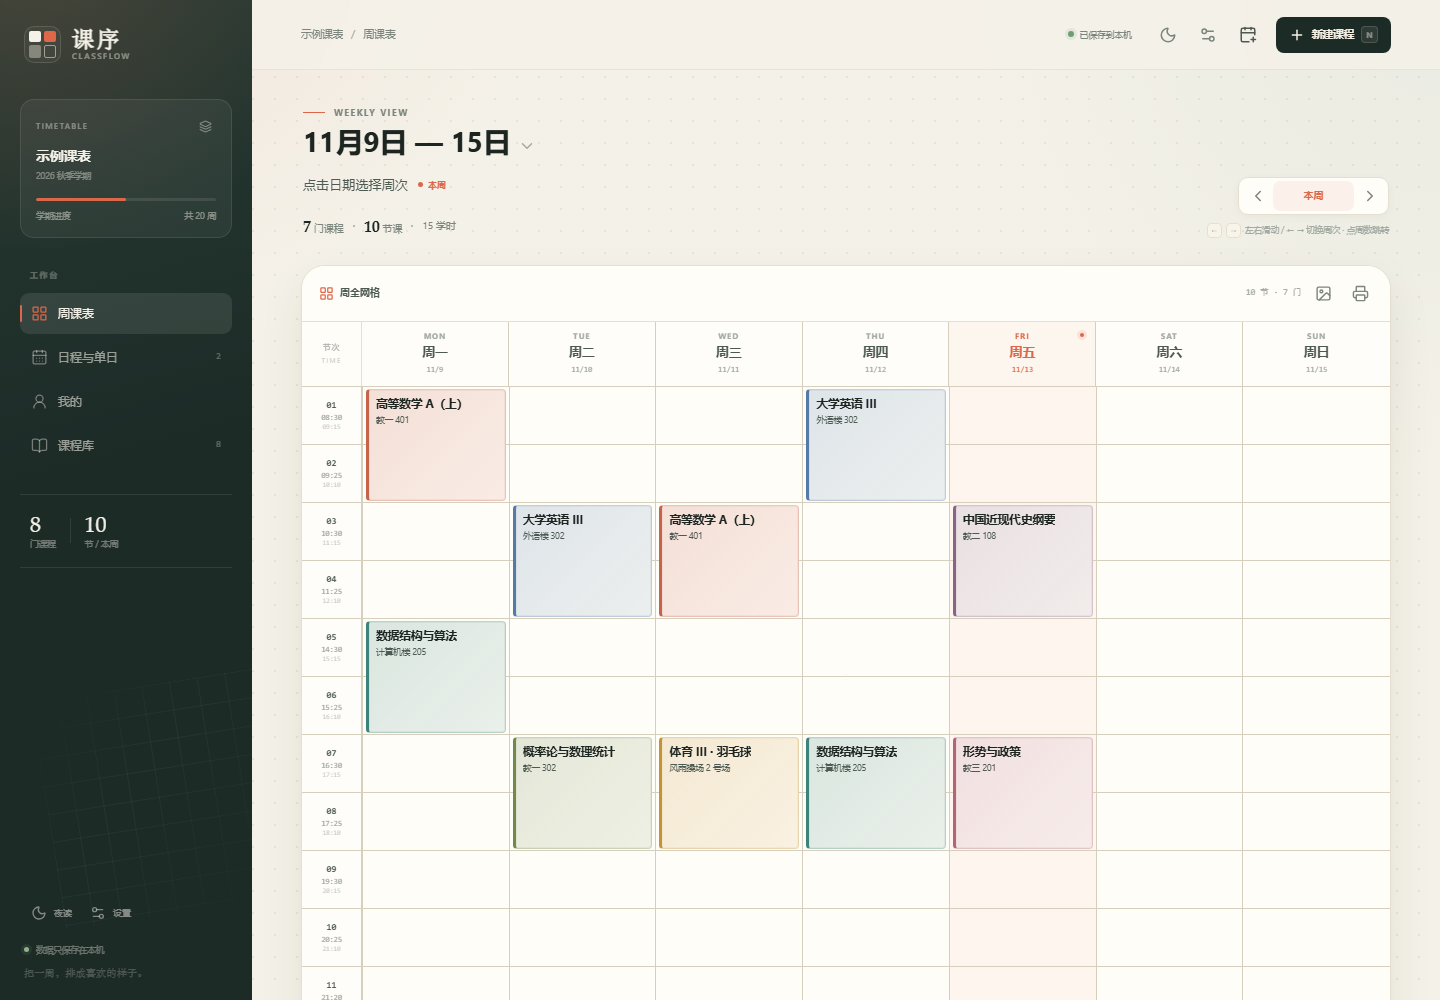
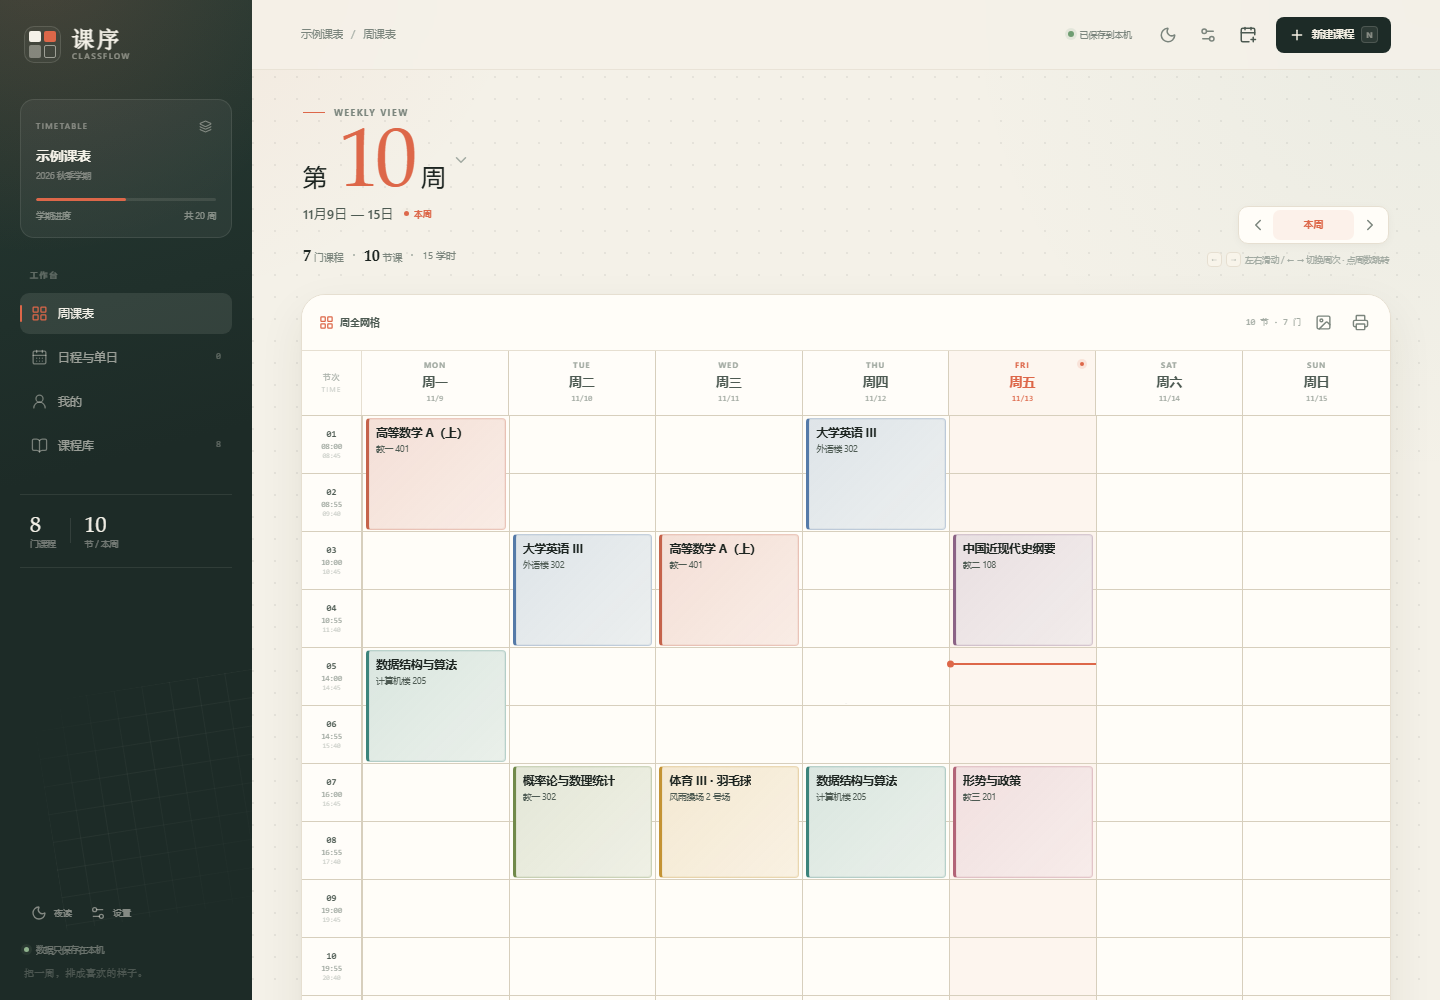
fix: show week number above dates on the week page
Restores the prominent 第 N 周 title and keeps the date range directly underneath, matching the requested hierarchy.

diff --git a/src/components/WeekHero.tsx b/src/components/WeekHero.tsx
@@ -101,11 +101,15 @@ export function WeekHero({
           aria-label={`当前第 ${week} 周，点击选择周次`}
           title="点击选择周次"
         >
-          <h1 className="hero-date-title">{formatWeekRange(dates)}</h1>
+          <h1 className="hero-title">
+            <span>第</span>
+            <strong>{week}</strong>
+            <span>周</span>
+          </h1>
           <ChevronDown size={18} />
         </button>
         <div className="hero-subline">
-          <span className="hero-range">点击日期选择周次</span>
+          <span className="hero-range">{formatWeekRange(dates)}</span>
           {statusLabel ? <span className="hero-status">{statusLabel}</span> : null}
           {isCurrent ? (
             <span className="hero-current">

diff --git a/src/components/ProfilePage.tsx b/src/components/ProfilePage.tsx
@@ -90,7 +90,7 @@ export function ProfilePage({
           <p className="eyebrow">MY CLASSFLOW</p>
           <h1>我的课序</h1>
           <p className="profile-hero-sub">没有账号，没有云端；你的课表、日程和壁纸都只在这台设备上。</p>
-          <p className="profile-version">课序 v1.11.0 · {storageOk ? "本机保存正常" : "保存失败，请检查浏览器空间"}</p>
+          <p className="profile-version">课序 v1.11.1 · {storageOk ? "本机保存正常" : "保存失败，请检查浏览器空间"}</p>
         </div>
         {prefs.theme === "whale" ? <WhaleMascot size={124} /> : null}
       </section>

diff --git a/src/styles.css b/src/styles.css
@@ -8066,9 +8066,9 @@ html[data-theme="whale"] .week-pick.is-selected span {
   .hero-copy {
     display: flex;
     min-width: 0;
-    flex-wrap: wrap;
-    align-items: center;
-    gap: 2px 9px;
+    flex-direction: column;
+    align-items: flex-start;
+    gap: 2px;
   }
 
   .hero-kicker,
@@ -8104,7 +8104,7 @@ html[data-theme="whale"] .week-pick.is-selected span {
   }
 
   .hero-subline {
-    margin: 0;
+    margin: 2px 0 0;
     gap: 5px;
   }
 

diff --git a/src/components/SettingsModal.tsx b/src/components/SettingsModal.tsx
@@ -425,7 +425,7 @@ export function SettingsModal({
                 <ArrowUpRight size={15} />
                 GitHub
               </a>
-              <span>课序 v1.11.0</span>
+              <span>课序 v1.11.1</span>
             </div>
           </nav>
 

diff --git a/README.md b/README.md
@@ -7,7 +7,7 @@
   <p>
     <a href="https://lcymxm.github.io/classflow/"><strong>在线使用 →</strong></a>
     &nbsp;·&nbsp;
-    <a href="https://github.com/lcymxm/classflow/releases/download/v1.11.0/classflow-1.11.0.apk"><strong>下载 Android APK →</strong></a>
+    <a href="https://github.com/lcymxm/classflow/releases/download/v1.11.1/classflow-1.11.1.apk"><strong>下载 Android APK →</strong></a>
     &nbsp;·&nbsp;
     <a href="#本地运行">本地运行</a>
     &nbsp;·&nbsp;
@@ -62,7 +62,7 @@
 - **多套课表**：课表管理里新建、进入、重命名、复制、删除；每套课表独立。
 - **多套作息**：两套作息方案都可改名，可分别编辑并保存，应用后可继续逐节调整。
 - **默认周视图**：打开即周课表，也可手动切换日视图。
-- **周次跳转**：点日期打开周次面板，快速跳转或用「回到本周」返回；周课表页不再常驻显示第几周。
+- **周次跳转**：首页大标题显示第几周，下面附上日期范围；点周数/日期打开周次面板，快速跳转或用「回到本周」返回。
 - **预设模板**：空白 / 理工科 / 文科 / 医学 / 考研备考。
 - **课程管理**：课程名、老师、地点、备注、颜色；一门课支持多个上课时间段。
 - **周次**：每个时段可逐周勾选第 1–30 周中的任意周，也可一键全选、单周、双周。
@@ -168,11 +168,11 @@
 
 ## Android APK
 
-[**下载 Android 离线版 APK（v1.11.0）→**](https://github.com/lcymxm/classflow/releases/download/v1.11.0/classflow-1.11.0.apk)
+[**下载 Android 离线版 APK（v1.11.1）→**](https://github.com/lcymxm/classflow/releases/download/v1.11.1/classflow-1.11.1.apk)
 
 - 最低系统：Android 7.0（API 24）
 - 包名：`io.github.lcymxm.classflow`
[2 lines of base64/hex data omitted]
 - 首次安装需要在系统设置中允许「安装未知应用」。
 - APK 已内置全部页面资源，打开时**不需要访问 GitHub Pages**；数据仍只保存在手机本机。
 - APK 内导出备份 / 日历会打开 Android 系统分享面板，可保存到「文件」或网盘；打印 / PDF 请使用网页版。
@@ -287,7 +287,7 @@ classflow/
 - Android 小组件只适用于 APK 版本，需要桌面启动器支持。小组件已通过构建检查；当前环境没有 Android 真机，实际桌面效果需要你安装后确认。
 - 同课合并现在同时看课程名称和老师：同名同老师才自动合并；同名不同老师会新建，避免把两个班混在一起。已有课程老师为空时，可先选已有课程带入老师。
 - 手机端周标题区域左右滑动切换周次。
-- 手机端周课表是一张紧凑的完整七天网格，课程块内显示课程、教室、老师和周次；不需要横向滑动。周课表页不再常驻显示第几周，日期范围就是导航入口。
+- 手机端周课表是一张紧凑的完整七天网格，课程块内显示课程、教室、老师和周次；不需要横向滑动。首页大标题显示「第几周」，下方再附日期范围。
 - 手机底部导航提供「课表 / 日程 / 课程 / 我的」四个入口。
 - 日程和单日课表统一在「日程与单日」页；周课表页只显示课程网格。
 - 课程冲突目前只会提示并并排展示，不会自动调整课程时间。
